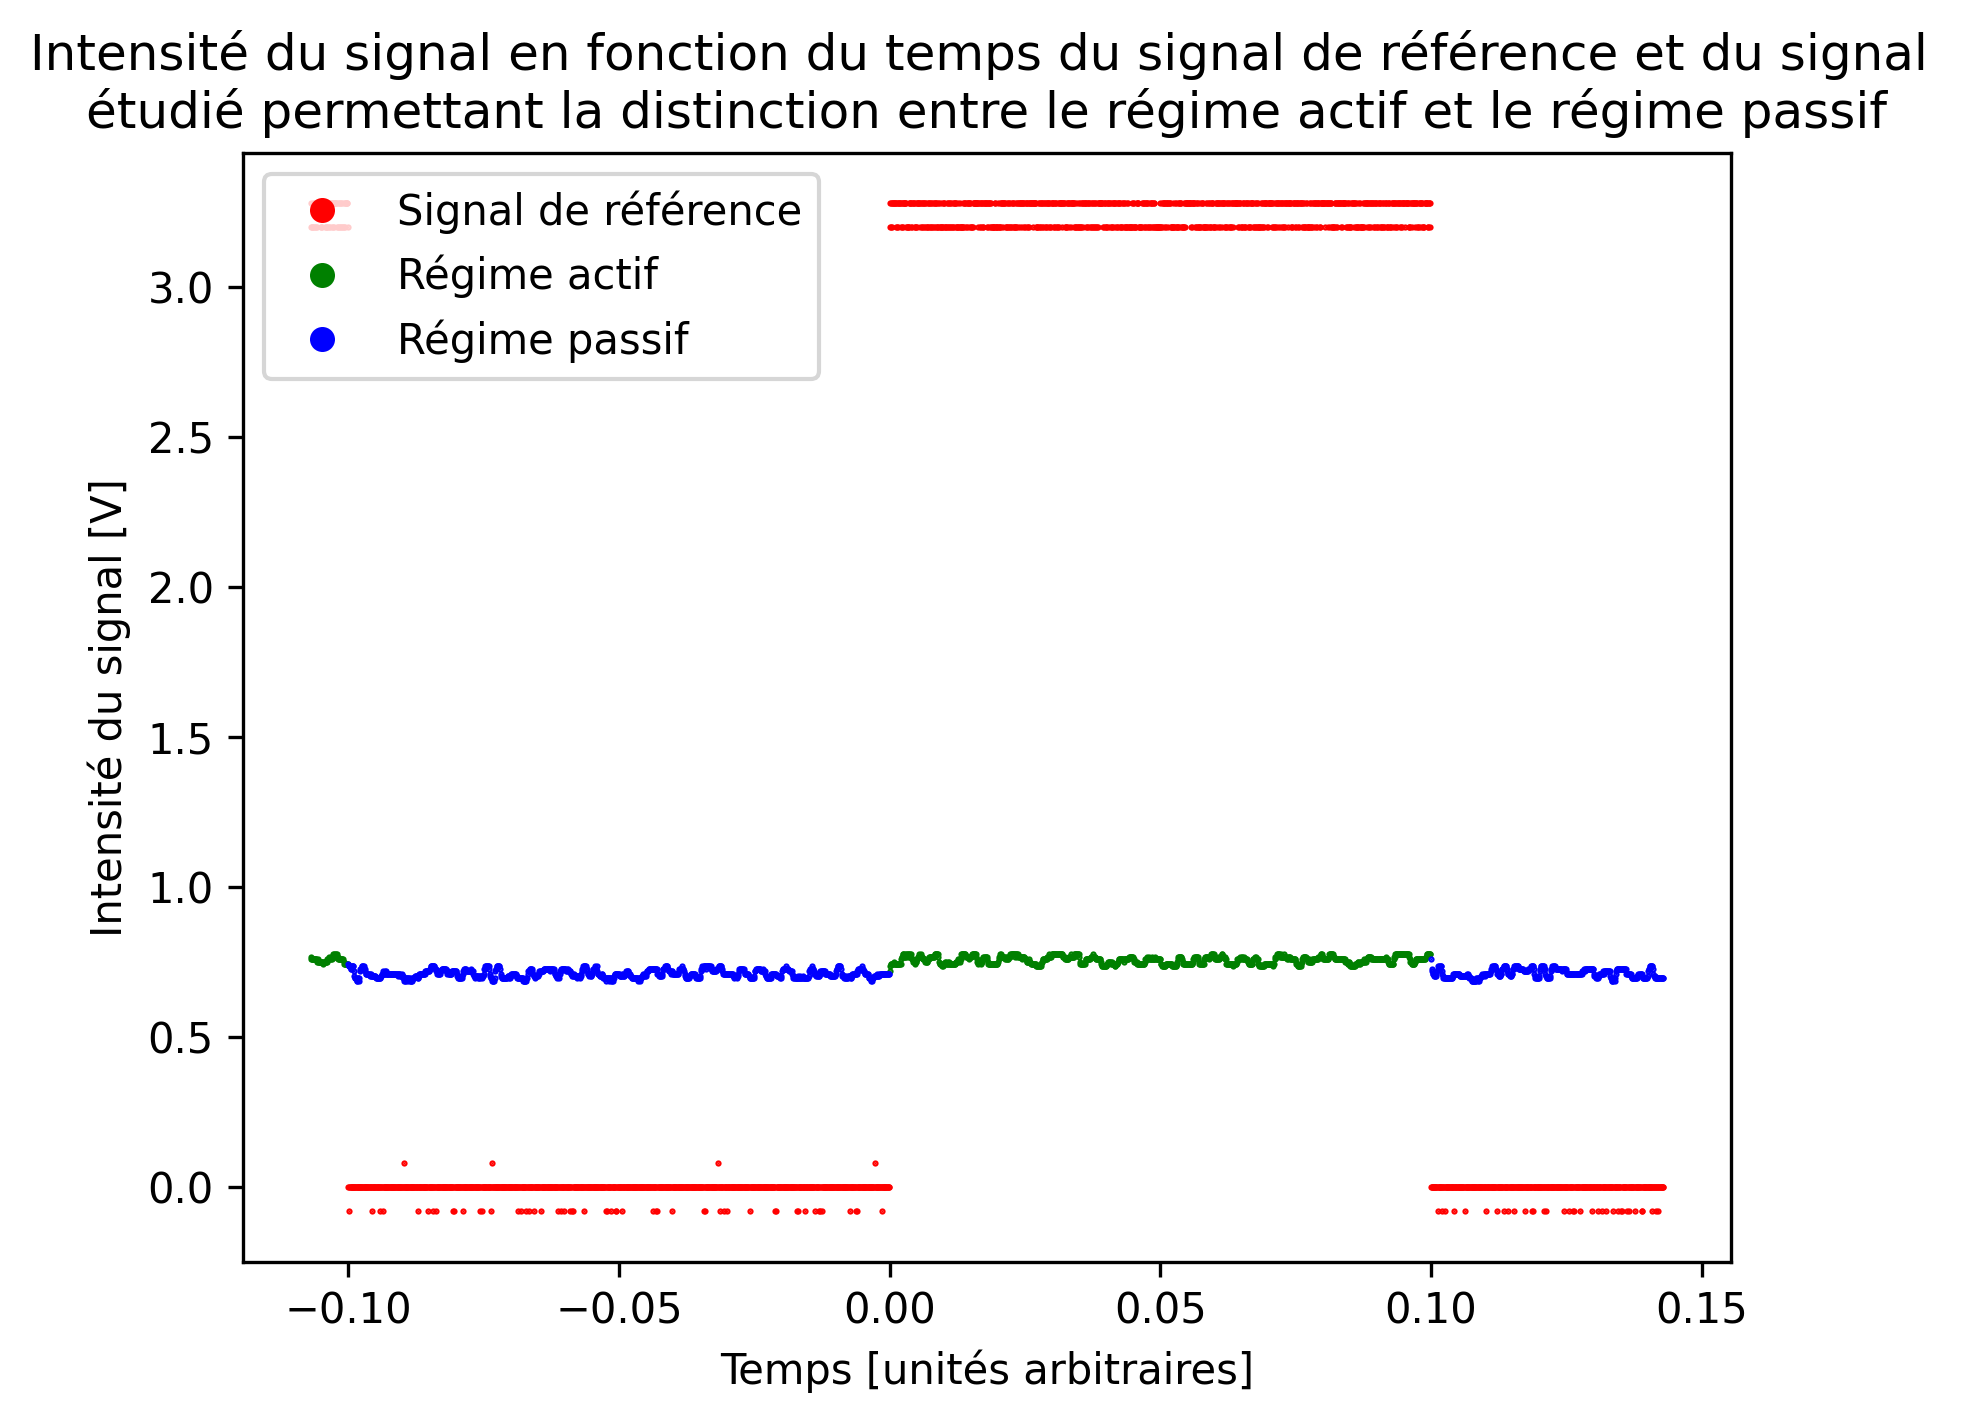
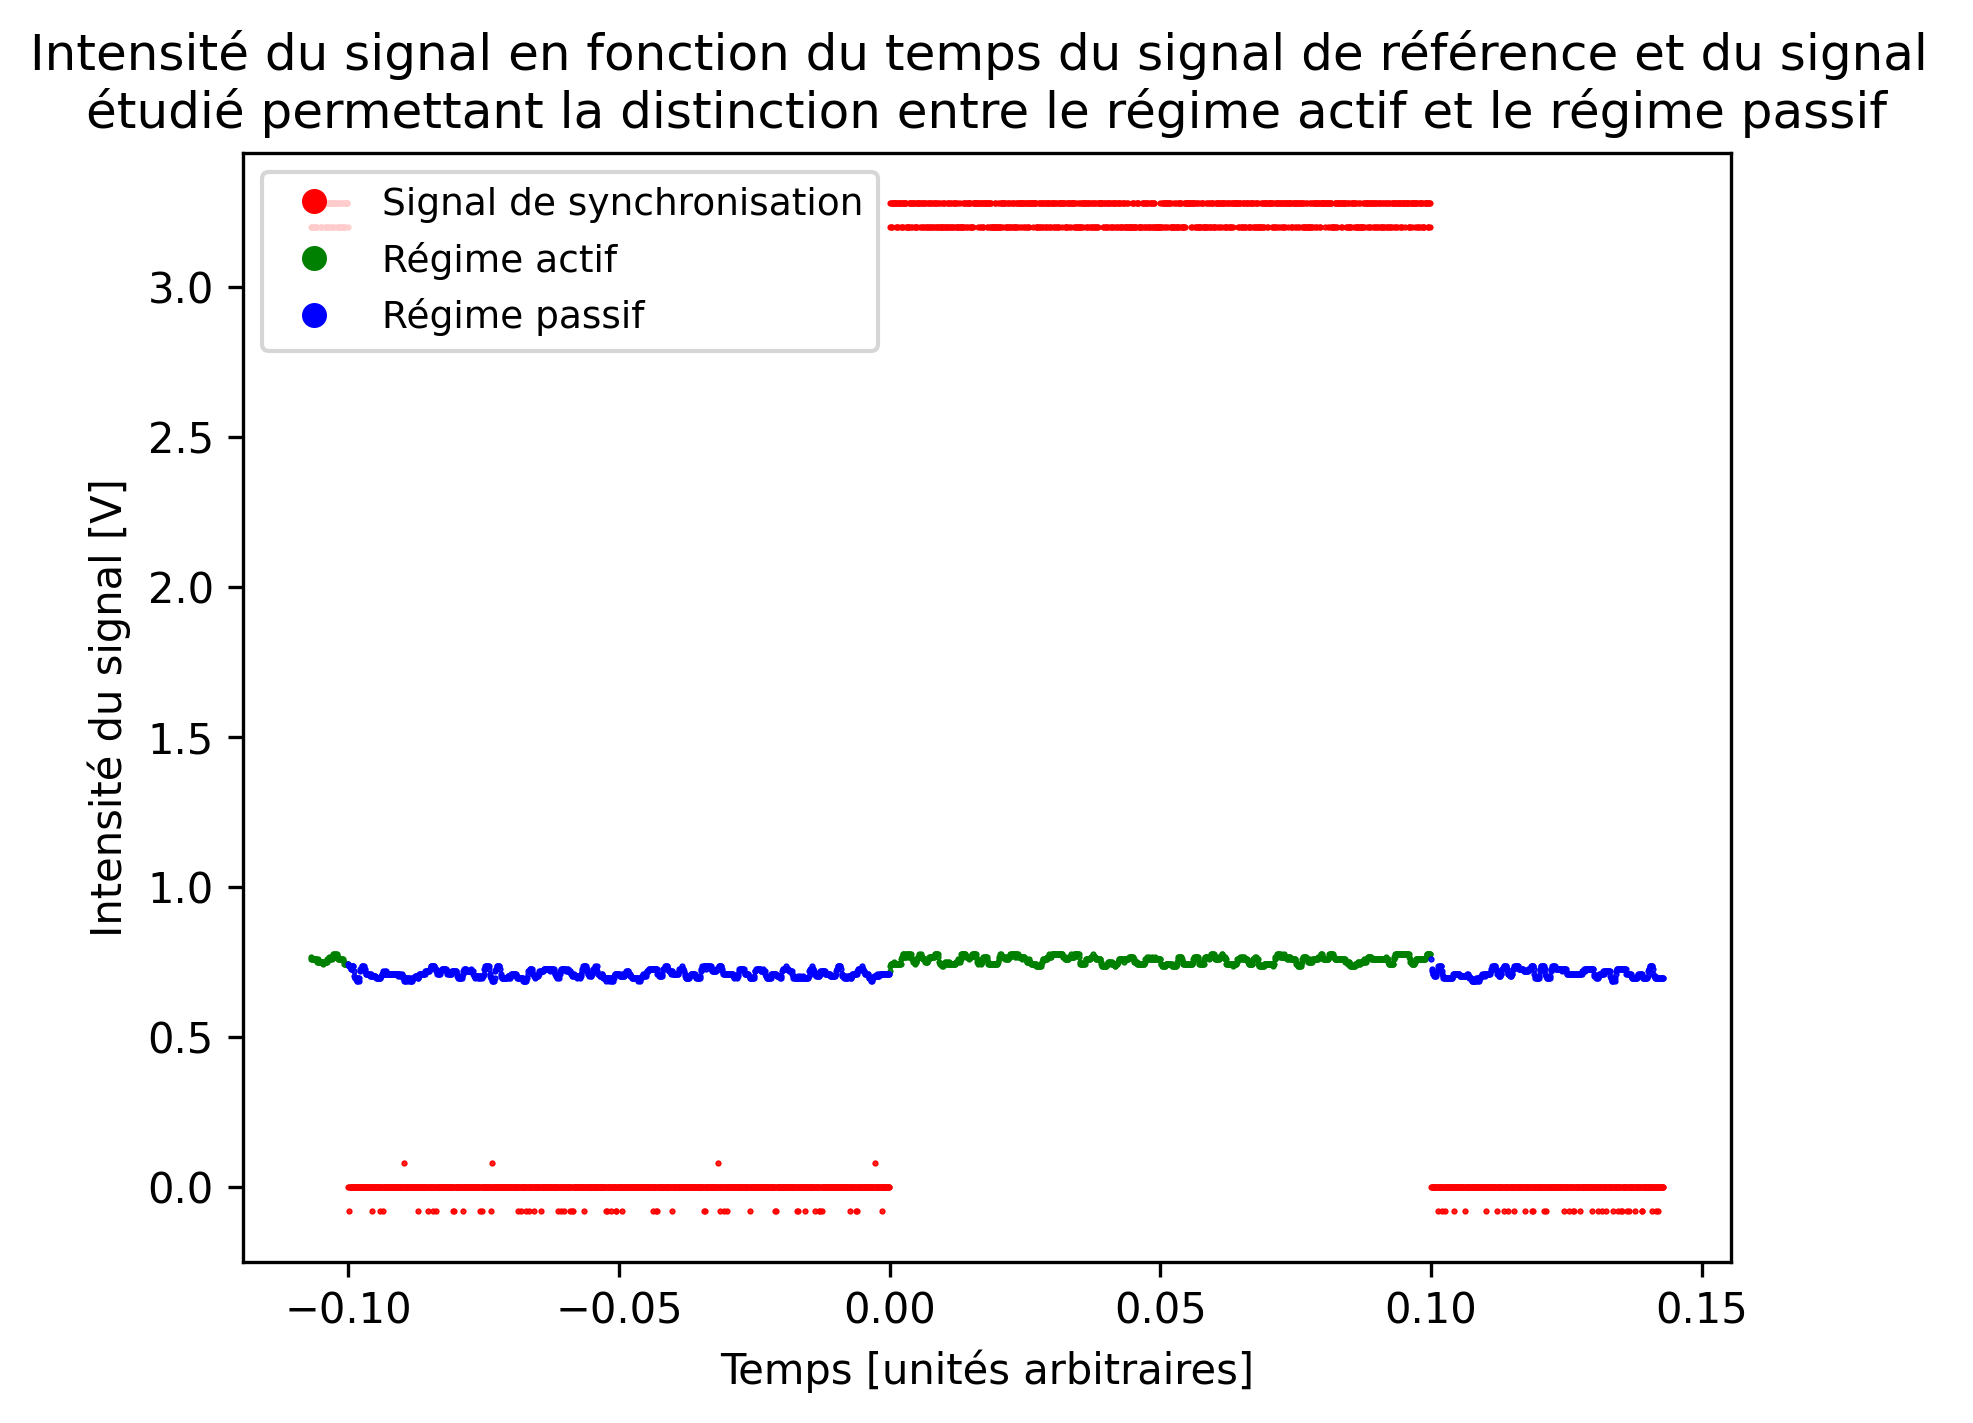
référence -> synchronisation

Changed region(s): [[0.1237, 0.1237, 0.4638, 0.2783], [0.4019, 0.2164, 0.4328, 0.2474]]

diff --git a/bruit/main.py b/bruit/main.py
@@ -25,14 +25,14 @@ def get_intensity_increase(noise_data: np.ndarray, reference_data: np.ndarray) -
     high_data = noise_data[reference_data[:,1] > high_low_threshold]
     low_data = noise_data[reference_data[:,1] < high_low_threshold]
 
-    plt.plot(reference_data[:,0], reference_data[:,1], "ro", markersize=0.5, label="Signal de référence")
+    plt.plot(reference_data[:,0], reference_data[:,1], "ro", markersize=0.5, label="Signal de synchronisation")
     plt.plot(high_data[:,0], high_data[:,1], "go", markersize=0.5, label="Régime actif")
     plt.plot(low_data[:,0], low_data[:,1], "bo", markersize=0.5, label="Régime passif")
     plt.xlabel("Temps [unités arbitraires]")
     plt.ylabel("Intensité du signal [V]")
     plt.title(("Intensité du signal en fonction du temps du signal de référence et du signal \n" + 
                "étudié permettant la distinction entre le régime actif et le régime passif"))
-    plt.legend(loc="upper left", markerscale=10)
+    plt.legend(loc="upper left", markerscale=10, fontsize=9)
     plt.savefig("bruit/figures/cropping_example.png", dpi=300, bbox_inches="tight")
     # plt.show()
 
@@ -41,12 +41,12 @@ def get_intensity_increase(noise_data: np.ndarray, reference_data: np.ndarray) -
     return high_val / low_val
 
 
-# print(
-#     (f"{C.NEGATIVE}Intensity increase{C.END}: " +
-#     str(get_intensity_increase(get_csv_data('bruit/data_deprecated/F0002CH1.CSV'), 
-#                                get_csv_data('bruit/data_deprecated/F0002CH2.CSV')))
-#     )
-# )
+print(
+    (f"{C.NEGATIVE}Intensity increase{C.END}: " +
+    str(get_intensity_increase(get_csv_data('bruit/data_deprecated/F0002CH1.CSV'), 
+                               get_csv_data('bruit/data_deprecated/F0002CH2.CSV')))
+    )
+)
 
 
 def analyze_multiple_csv(data_dir: str) -> Union[uncertainties.core.Variable, np.ndarray]:
@@ -121,4 +121,4 @@ def make_graph():
     # plt.show()
 
 
-make_graph()
+# make_graph()
